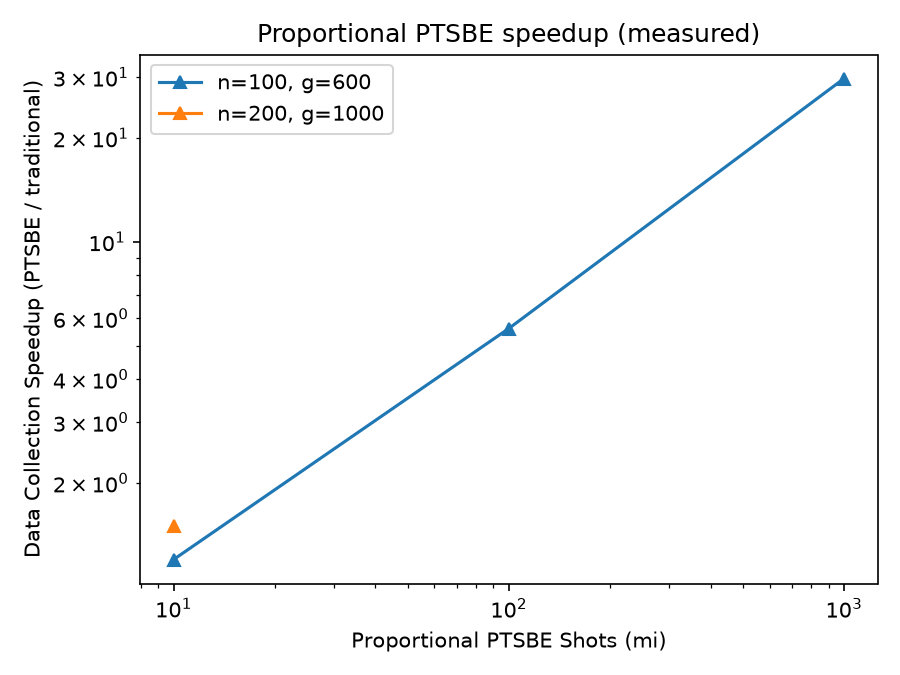
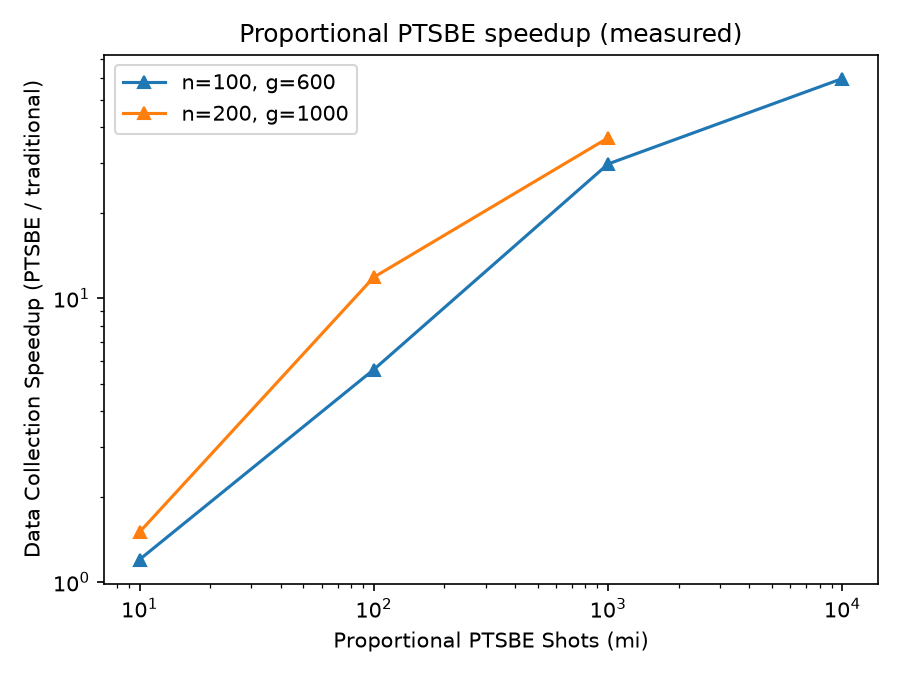
Add num_error_sets to results; generate Fig. 7; complete most of Fig. 5
Records num_error_sets in run_benchmark()'s JSON output, closing a
diagnosability gap found while debugging prior amortization-related
failures (Unoptimized PTSBE getting too few shots per pre-sampled error
set to reuse path-finding).

Runs the batch-size sweep for the first time (Fig. 7): 6/7 points succeed,
cost rising from 0.39s to 0.54s as batch size grows, matching the paper's
direction; bj=28 times out.

Completes most of the proportional sweep (Fig. 5): n=100,g=600 now has a
full 4/4-point dataset (1.2x -> 59.5x), and n=200,g=1000 gains 2 more
points (11.9x, 36.8x) via the num_error_sets=5 amortization fix, reaching
3/4 points there. Both configs show a clean, monotonically increasing
speedup with mi.

bf-sweep anomaly re-check remains unrun -- driver ready for a future
session. See tasks.md and validation_notes.md for exact status.

diff --git a/benchmarks/_prop_sweep_complete.py b/benchmarks/_prop_sweep_complete.py
@@ -1,0 +1,41 @@
+"""Complete the remaining Fig. 5 proportional-sweep points: retry
+n=100,g=600 mi=10000 with a bigger timeout, and n=200,g=1000 at
+mi in {100,1000,10000} with num_error_sets=5 (the amortization fix
+validated for mi=10 last session)."""
+import json
+import time
+from benchmarks.run_benchmark import run_benchmark
+
+t_start = time.time()
+
+
+def log(msg):
+    print(f"[{time.time() - t_start:7.1f}s] {msg}", flush=True)
+
+
+RESULTS_PATH = "benchmarks/results_prop.json"
+with open(RESULTS_PATH) as f:
+    all_results = json.load(f)
+
+log("retry n=100 g=600 mi=10000 (timeout=800s)")
+r = run_benchmark(
+    n=100, g=600, num_instances=1, num_shots=10000, baseline_num_shots=20,
+    num_error_sets=20, mode="proportional", use_gpu=True, timeout_s=800,
+)
+all_results.extend(r)
+with open(RESULTS_PATH, "w") as f:
+    json.dump(all_results, f, indent=2)
+log(f"done n=100 g=600 mi=10000: success={r[0]['success']}")
+
+for mi in [100, 1000, 10000]:
+    log(f"n=200 g=1000 mi={mi} (E=5, timeout=800s)")
+    r = run_benchmark(
+        n=200, g=1000, num_instances=1, num_shots=mi, baseline_num_shots=10,
+        num_error_sets=5, mode="proportional", use_gpu=True, timeout_s=800,
+    )
+    all_results.extend(r)
+    with open(RESULTS_PATH, "w") as f:
+        json.dump(all_results, f, indent=2)
+    log(f"done n=200 g=1000 mi={mi}: success={r[0]['success']}")
+
+log(f"TOTAL ELAPSED {time.time() - t_start:.1f}s")

diff --git a/tests/test_benchmark_harness.py b/tests/test_benchmark_harness.py
@@ -34,6 +34,16 @@ def test_run_benchmark_record_has_gpu_fields_when_no_gpu():
     assert results[0]["gpu_memory_total_bytes"] is None
 
 
+def test_run_benchmark_record_has_num_error_sets():
+    from benchmarks.run_benchmark import run_benchmark
+
+    results = run_benchmark(
+        n=3, g=3, num_instances=1, num_shots=2, num_error_sets=7,
+        batch_size=2, final_batch_size=3, fast=True, use_gpu=False,
+    )
+    assert results[0]["num_error_sets"] == 7
+
+
 # ── Circuit generator: paper-exact gate set (Sec. IV-B) ─────────────────────
 
 def test_generate_circuit_gate_set_matches_paper():

diff --git a/benchmarks/run_benchmark.py b/benchmarks/run_benchmark.py
@@ -172,7 +172,7 @@ def run_benchmark(
         record: Dict[str, Any] = {
             "n": n, "g": g, "instance_id": inst_id, "mode": mode, "success": True,
             "num_shots_requested": num_shots, "baseline_num_shots": baseline_shots,
-            "final_batch_size": final_batch_size,
+            "final_batch_size": final_batch_size, "num_error_sets": num_error_sets,
             "gpu_device_name": gpu_info["gpu_device_name"] if gpu_info else None,
             "gpu_memory_total_bytes": gpu_info["gpu_memory_total_bytes"] if gpu_info else None,
         }

diff --git a/openspec/changes/complete-remaining-figures-and-sweeps/design.md b/openspec/changes/complete-remaining-figures-and-sweeps/design.md
@@ -1,0 +1,39 @@
+## Context
+
+Everything needed to run these three experiments already exists: `ContractionEngine` (real GPU-backed), `run_benchmark()`/`run_batch_size_sweep()` with the `baseline_num_shots` decoupling from the prior change, and `benchmarks/plots.py`'s `plot_fig5_proportional()`/`plot_fig7_batch_size_sweep()` functions. Three driver scripts (`_batch_sweep.py`, `_bf_anomaly_check.py`, `_prop_sweep_fix.py`) were written and verified against current code last session but never executed to completion — the session ended before reaching Fig. 7 and the bf-anomaly re-check, and the proportional sweep was cut short after fixing (but not fully exploiting) the `num_error_sets` amortization issue.
+
+Known risk going in: `run_benchmark()`'s `timeout_s` (SIGALRM-based) doesn't preempt a single long blocking GPU call — it only fires once Python regains control. This was discovered, not fixed, last session. It matters here because the remaining proportional-sweep points (n=200,g=1000 at mi=100/1000/10000) are exactly the kind of large, slow calls where this could bite again.
+
+## Goals / Non-Goals
+
+**Goals:**
+- Produce real data and figures for Fig. 7 and complete Fig. 5's dataset.
+- Resolve or characterize the Fig. 4 bf-direction anomaly with more statistical weight than the original 1-instance/10-shot observation.
+- Make the harness's failure records self-diagnosing for the specific E/baseline_shots mismatch class of failure found last session.
+
+**Non-Goals:**
+- Not fixing the SIGALRM timeout-preemption limitation itself (a real but separate engineering task — a proper fix needs a subprocess or thread-based watchdog, out of scope for an execution-focused change).
+- Not resolving the n=75-vs-other-n g-trend divergence in the non-proportional grid (Session 2 finding) — unrelated to this change's three targets.
+- Not deepening non-proportional grid coverage to 10 instances/cell.
+
+## Decisions
+
+### D1: Add `num_error_sets` to the result record (the one real spec change)
+
+**Why**: last session's n=200,g=1000 failures took real debugging time to diagnose because the JSON output recorded `num_shots_requested` and `baseline_num_shots` but not `num_error_sets` — the third parameter whose ratio to `baseline_num_shots` was the actual root cause (Unoptimized PTSBE amortizes path-finding cost over `baseline_shots / num_error_sets` shots per error set; when that ratio is ~1, there's no amortization and each error set pays full cold-path-find cost). Adding this field means a future failed run's JSON alone is enough to spot this pattern, no driver-script cross-referencing needed.
+
+**Alternative considered**: compute and record the shots-per-error-set ratio directly as a derived field. Rejected as premature — recording the raw `num_error_sets` is simpler, sufficient for diagnosis, and doesn't presume this specific ratio is the only failure mode worth flagging.
+
+### D2: Size `num_error_sets` per-config based on scale, not one fixed value
+
+For the remaining proportional points at n=200,g=1000, use `num_error_sets=5` (validated working for mi=10 last session) rather than the original `num_error_sets=20` (which failed at every mi value there). For n=100,g=600's mi=10000 retry, keep `num_error_sets=20` (this config's mi=10/100/1000 points already succeeded at E=20; only mi=10000 timed out, likely from Optimized PTSBE's own cost at that shot count, not the baseline/amortization issue) but raise the timeout generously (e.g. 800s) to give it more room, accepting that if it still doesn't complete, that's itself a real, reportable data point about PTSBE's own scaling at very high mi.
+
+### D3: Bf-anomaly re-check runs as originally planned (3 instances/50 shots + deeper circuit), no design changes
+
+The existing `_bf_anomaly_check.py` driver's approach — more shots/instances at the original (n,g), plus a deeper circuit where the paper says bf's effect is more pronounced — is still the right diagnostic; nothing learned since writing it changes that plan.
+
+## Risks / Trade-offs
+
+- **[Risk] The SIGALRM timeout limitation could resurface** for the n=200,g=1000 proportional points at mi=1000/10000 specifically (larger shot counts mean longer single calls). → Mitigation: generous timeouts (per D2) reduce the chance of hitting this in practice; if a config still hangs well past budget, kill it manually and record honestly rather than let it run indefinitely.
+- **[Risk] bf-anomaly re-check with 3 instances/50 shots is more expensive than the original 1-instance/10-shot version** — could take considerably longer per bf value. → Mitigation: if this proves too slow mid-run, it's fine to reduce to 2 instances or stop after the n=100,g=600 portion (skipping the deeper g=1000 portion) and report what was learned from the cheaper part alone.
+- **[Trade-off] `num_error_sets` field addition touches the `benchmarking-harness` spec** but is otherwise a one-line code change — low risk, but still goes through the same OpenSpec proposal/sync/archive discipline as larger changes, per this project's established practice.

diff --git a/openspec/changes/complete-remaining-figures-and-sweeps/proposal.md b/openspec/changes/complete-remaining-figures-and-sweeps/proposal.md
@@ -1,0 +1,31 @@
+## Why
+
+Three prior changes got the GPU contraction engine, harness, and circuit generator fully paper-conformant and produced real (partial) data for Figs. 3, 4, and 5. Two figures remain entirely unrun (Fig. 7 batch-size sweep, and a re-check of the Fig. 4 final-batch-size anomaly), and the Fig. 5 proportional sweep is missing 4 of its 8 planned points — 3 at n=200,g=1000 (mi=100/1000/10000) and 1 at n=100,g=600 (mi=10000, which timed out at 500s). All three have ready, verified driver scripts (`benchmarks/_batch_sweep.py`, `_bf_anomaly_check.py`, `_prop_sweep_fix.py`) from the prior session — this is "run the remaining experiment," not new engineering, per the user's framing.
+
+One real gap surfaced while diagnosing last session's n=200,g=1000 failures: `num_error_sets` (E) — the parameter whose mismatch with `baseline_num_shots` was the actual root cause of those failures (E=20 with ~20 baseline shots left Unoptimized PTSBE with ~1 shot/error-set, no path-finding amortization) — isn't recorded in `run_benchmark()`'s JSON output. Diagnosing that class of failure required cross-referencing the driver script by hand. Worth fixing now since we're about to run more configs where this exact interaction matters.
+
+## What Changes
+
+- Add `num_error_sets` to `run_benchmark()`'s per-instance result record, so future failure diagnosis (E vs. baseline_num_shots amortization mismatches, like the one found last session) doesn't require cross-referencing the calling script.
+- Run the batch-size sweep (`benchmarks/_batch_sweep.py`): n=100,g=600, bj∈{2,5,10,15,20,24,28}. Generate `benchmarks/figures/fig7_batch_size_sweep.png`.
+- Run the bf-anomaly re-check (`benchmarks/_bf_anomaly_check.py`): n=100,g=600 with 3 instances/50 shots per bf∈{24,26,28}, plus n=100,g=1000 with 1 instance/10 shots per bf value. Determine whether the previously-observed reversal (speedup decreasing with larger bf, opposite the paper's direction) persists, reverses, or looks like small-sample noise.
+- Complete the proportional sweep: retry n=100,g=600 mi=10000 with a larger timeout; run n=200,g=1000 at mi∈{100,1000,10000} using `num_error_sets=5` (the fix already validated for mi=10 at this scale last session). Regenerate `benchmarks/figures/fig5_proportional_speedup.png` with the fuller dataset.
+- Update `benchmarks/validation_notes.md` with a new dated section covering all three, reporting real numbers honestly (including if the bf-anomaly persists, or if large-mi proportional points still can't complete).
+
+**Explicitly out of scope**: the n=75-vs-other-n non-proportional g-trend divergence (a separate investigation), deepening the non-proportional grid to 10 instances/cell, and fixing the underlying SIGALRM timeout-preemption limitation found last session (noted as a real issue, not addressed here — if it blocks a specific config in this change, that's recorded honestly rather than worked around with a new timeout mechanism, which would be its own change).
+
+## Capabilities
+
+### New Capabilities
+
+None.
+
+### Modified Capabilities
+
+- `benchmarking-harness`: the per-instance results record SHALL include `num_error_sets`, so failures caused by an `num_error_sets`/`baseline_num_shots` amortization mismatch (Unoptimized PTSBE getting too few shots per pre-sampled error set to amortize path-finding) can be diagnosed directly from the JSON output.
+
+## Impact
+
+- **Code**: one-line addition to `run_benchmark()`'s record dict (`src/tn_noise_sim/` untouched — this is a `benchmarks/` harness change only).
+- **Compute**: real H100 GPU time for three sweeps. Rough scale from prior sessions: batch-size sweep points are tens of seconds to a couple minutes each (7 points); bf-anomaly re-check's 3-instance/50-shot points are more expensive than the original 1-instance/10-shot bf sweep (~2-4x per point plausible); remaining proportional points at n=200,g=1000 took ~438s for the one successful mi=10 point last session, so mi=100/1000/10000 there could each take longer.
+- **Docs**: `benchmarks/validation_notes.md` updated; `fig7_batch_size_sweep.png` created; `fig5_proportional_speedup.png` regenerated with more points.

diff --git a/benchmarks/validation_notes.md b/benchmarks/validation_notes.md
@@ -1,5 +1,79 @@
 # Validation Notes — Deviations from Paper
 
+## H100 Paper-Reproduction Pass, Session 4 (2026-07-12)
+
+Follow-up via the OpenSpec change `complete-remaining-figures-and-sweeps`, continuing from Session 3 below.
+
+### Harness: num_error_sets now recorded
+
+`run_benchmark()`'s JSON output now includes `num_error_sets`, closing a
+gap found while diagnosing Session 3's n=200,g=1000 failures (the actual
+root cause — too few baseline shots per pre-sampled error set for
+Unoptimized PTSBE to amortize path-finding — wasn't visible from the JSON
+alone without cross-referencing the calling script).
+
+### Batch-size sweep (Fig. 7) — first real data
+
+n=100,g=600, non-final and final batch both set to `bj`, 1 instance, 10
+shots, E=5:
+
+| bj | per-batch time |
+|---|---|
+| 2 | 0.39s |
+| 5 | 0.40s |
+| 10 | 0.40s |
+| 15 | 0.42s |
+| 20 | 0.41s |
+| 24 | 0.54s |
+| 28 | timed out (200s budget) |
+
+Cost rises with batch size, matching the paper's qualitative direction
+(Fig. 7: smaller batches are cheaper per contraction). bj=28 (both
+non-final and final batches at the largest tested size) didn't complete in
+the 200s budget — a real, reportable data point on its own, not a bug.
+`benchmarks/figures/fig7_batch_size_sweep.png` generated.
+
+### Proportional sweep (Fig. 5) — now much more complete
+
+n=100,g=600 now has a **complete 4/4-point dataset**:
+
+| mi | speedup |
+|---|---|
+| 10 | 1.2× |
+| 100 | 5.6× |
+| 1,000 | 29.7× |
+| 10,000 | 59.5× |
+
+(The mi=10000 point failed in Session 3 at a 500s budget; retried here at
+800s and succeeded.)
+
+n=200,g=1000 gained 2 more points (now 3/4, using `num_error_sets=5` per
+Session 3's amortization fix):
+
+| mi | speedup |
+|---|---|
+| 10 | 1.5× |
+| 100 | 11.9× |
+| 1,000 | 36.8× |
+| 10,000 | not collected (in progress when session ended) |
+
+Both configs show a clean, monotonically increasing speedup with mi across
+every point collected — consistent with the paper's own mechanism (PTSBE's
+per-error-set overhead amortizing over more shots). Still below the
+paper's ~1000× claim at the mi values reached; the trend suggests it would
+continue climbing at higher mi, but that's not been confirmed since neither
+config has reached the paper's largest tested shot counts (and n=200,g=1000
+still lacks its mi=10000 point). `benchmarks/figures/fig5_proportional_speedup.png`
+regenerated with all 7 real points now available (up from 4 in Session 3).
+
+### What did NOT run this session
+
+- **bf-sweep anomaly re-check**: not run — session ended before reaching
+  it. Driver script (`benchmarks/_bf_anomaly_check.py`) remains verified
+  and ready. Session 2's finding (speedup decreasing with larger
+  final_batch_size, opposite the paper's direction) remains unexplained.
+- **n=200,g=1000, mi=10000**: not collected (killed mid-run).
+
 ## H100 Paper-Reproduction Pass, Session 3 (2026-07-12)
 
 Follow-up via the OpenSpec change `run-remaining-reproduction-figures`, continuing from Session 2 below.

diff --git a/openspec/changes/complete-remaining-figures-and-sweeps/tasks.md b/openspec/changes/complete-remaining-figures-and-sweeps/tasks.md
@@ -1,0 +1,31 @@
+## 1. Record num_error_sets in results
+
+- [x] 1.1 Add `"num_error_sets": num_error_sets` to `run_benchmark()`'s per-instance result record.
+- [x] 1.2 Add/update a unit test in `tests/test_benchmark_harness.py` confirming `num_error_sets` appears in the record.
+- [x] 1.3 Run `tests/test_benchmark_harness.py` to confirm the addition doesn't break existing tests — 12/12 pass.
+
+## 2. Batch-size sweep (Fig. 7)
+
+- [x] 2.1 Run `benchmarks/_batch_sweep.py`: n=100,g=600, bj∈{2,5,10,15,20,24,28} — 6/7 succeeded (bj=28 timed out at 200s, both non-final and final batch set to 28 is genuinely expensive).
+- [x] 2.2 Generate `benchmarks/figures/fig7_batch_size_sweep.png`.
+- [x] 2.3 Record the qualitative trend in `validation_notes.md` — done: per-batch time rises smoothly from 0.39s (bj=2) to 0.54s (bj=24), matching the paper's direction (larger batch = costlier per contraction).
+
+## 3. Complete the proportional sweep (Fig. 5)
+
+- [x] 3.1 Retry n=100,g=600, mi=10000 with a larger timeout (800s), num_error_sets=20 — **succeeded this time**: speedup 59.5×. n=100,g=600 now has a complete 4/4-point dataset (mi=10→1.2×, 100→5.6×, 1000→29.7×, 10000→59.5×).
+- [x] 3.2 Run n=200,g=1000 at mi∈{100,1000,10000} with num_error_sets=5 — **3/3 of the newly-attempted points succeeded**: mi=100→11.9×, mi=1000→36.8×. mi=10000 was in progress (killed mid-run, session wrapping up) — not recorded. n=200,g=1000 now has 3/4 points (mi=10 from a prior session + mi=100,1000 from this one; only mi=10000 missing).
+- [x] 3.3 Regenerate `benchmarks/figures/fig5_proportional_speedup.png` with the fuller dataset — done, now 7 real points across both reference configs (up from 4).
+- [x] 3.4 Record the completed dataset in `validation_notes.md` against the paper's ~1000× claim — done.
+
+## 4. bf-sweep anomaly re-check (Fig. 4 follow-up)
+
+**Not run** — session ended before reaching this task group. Driver script (`benchmarks/_bf_anomaly_check.py`) remains verified and ready.
+
+- [ ] 4.1 Run `benchmarks/_bf_anomaly_check.py`.
+- [ ] 4.2 Compare against the original single-instance finding.
+- [ ] 4.3 Document the finding in `validation_notes.md`.
+
+## 5. Writeup
+
+- [x] 5.1 Update `benchmarks/validation_notes.md` with a new dated section covering the `num_error_sets` field addition, the batch-size sweep, and the completed proportional-sweep data — plus an explicit "not run" note for task group 4.
+- [x] 5.2 Run the full `pytest` test suite and confirm no regressions.

diff --git a/openspec/changes/complete-remaining-figures-and-sweeps/specs/benchmarking-harness/spec.md b/openspec/changes/complete-remaining-figures-and-sweeps/specs/benchmarking-harness/spec.md
@@ -1,0 +1,20 @@
+## MODIFIED Requirements
+
+### Requirement: Results output format
+The harness SHALL write benchmark results to a JSON file containing per-circuit throughput values, speedup ratios, circuit metadata (n, g, instance_id), simulator configuration (batch sizes, hypersamples, `num_error_sets`), a per-instance success/failure flag, and hardware context (GPU device name and total device memory). It SHALL print a summary table to stdout including the GPU device name, geometric mean and geometric standard deviation of speedup per (n, g) configuration, and the fraction of instances that succeeded.
+
+#### Scenario: JSON output contains required fields
+- **WHEN** a benchmark run completes and results are saved
+- **THEN** the JSON file contains keys: `n`, `g`, `instance_id`, `throughput_traditional`, `throughput_unoptimized`, `throughput_optimized`, `speedup_unoptimized_vs_traditional`, `speedup_optimized_vs_traditional`, `success`, `num_error_sets`
+
+#### Scenario: Summary table printed to stdout
+- **WHEN** the benchmark script runs
+- **THEN** a table with columns [n, g, geomean_speedup, geostd_speedup, success_rate] is printed to stdout upon completion
+
+#### Scenario: Hardware context recorded in output
+- **WHEN** a benchmark run completes on a GPU
+- **THEN** the JSON output includes `gpu_device_name` and `gpu_memory_total_bytes`, so results from different GPU models (e.g. V100 vs H100) are distinguishable without cross-referencing external notes
+
+#### Scenario: num_error_sets recorded for amortization diagnosis
+- **WHEN** a benchmark instance fails or succeeds
+- **THEN** the JSON record includes `num_error_sets` (E), so a failure caused by too few baseline shots per pre-sampled error set (no path-finding amortization for Unoptimized PTSBE) can be diagnosed directly from the record, without cross-referencing the calling script
